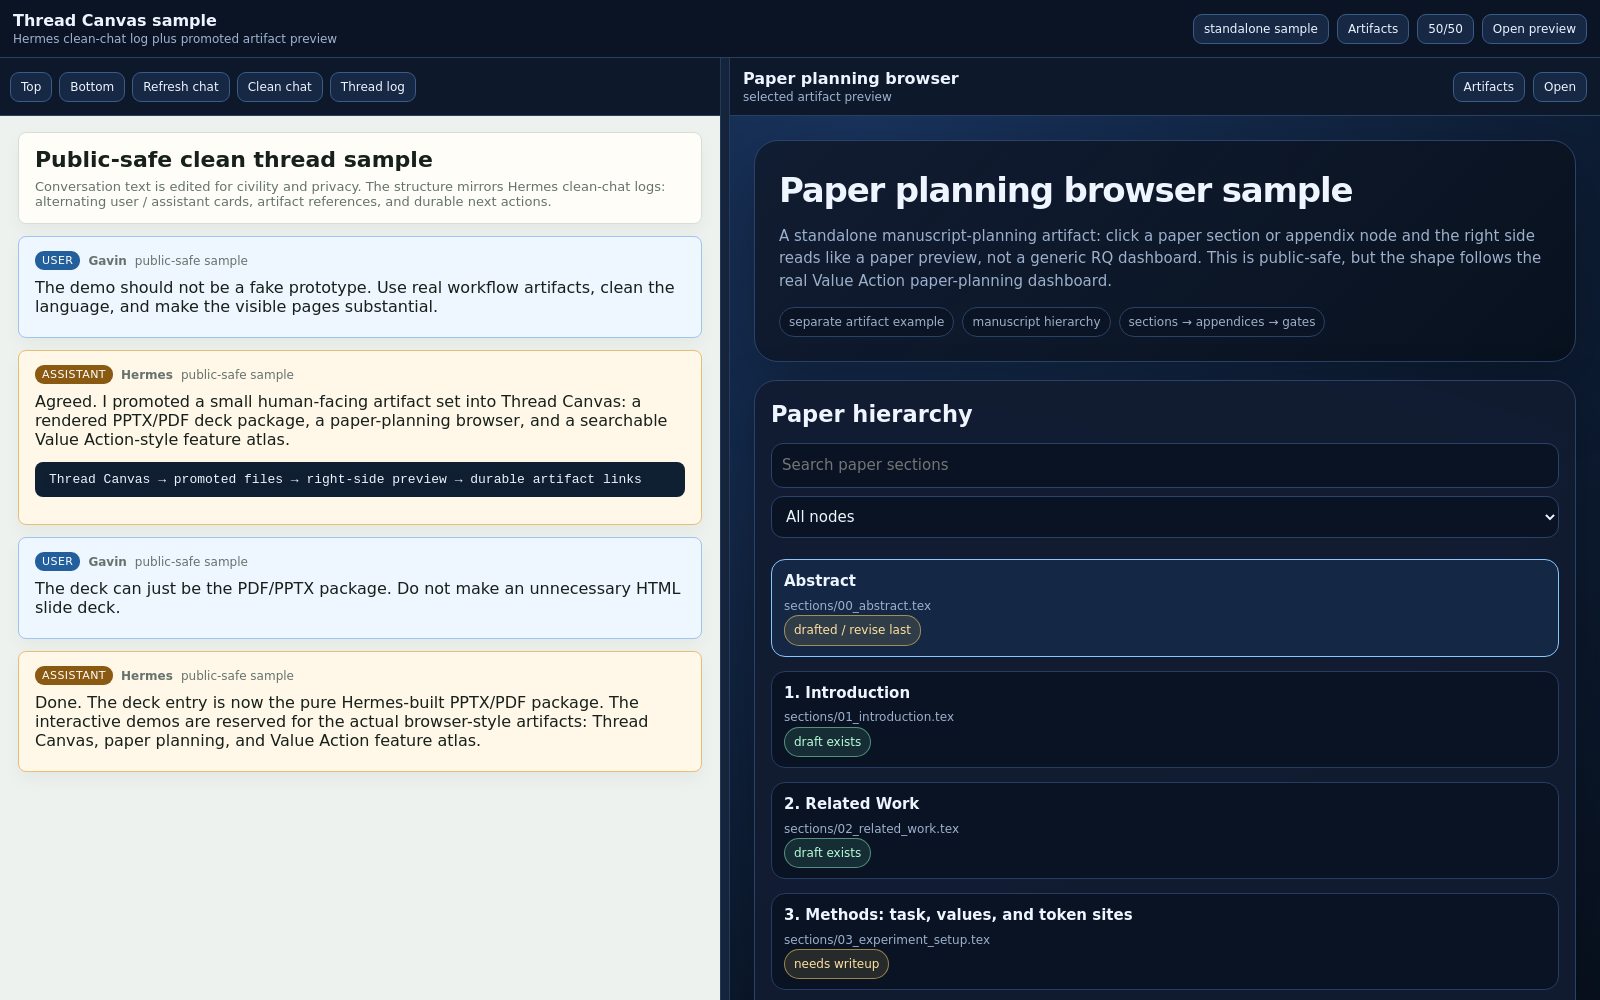
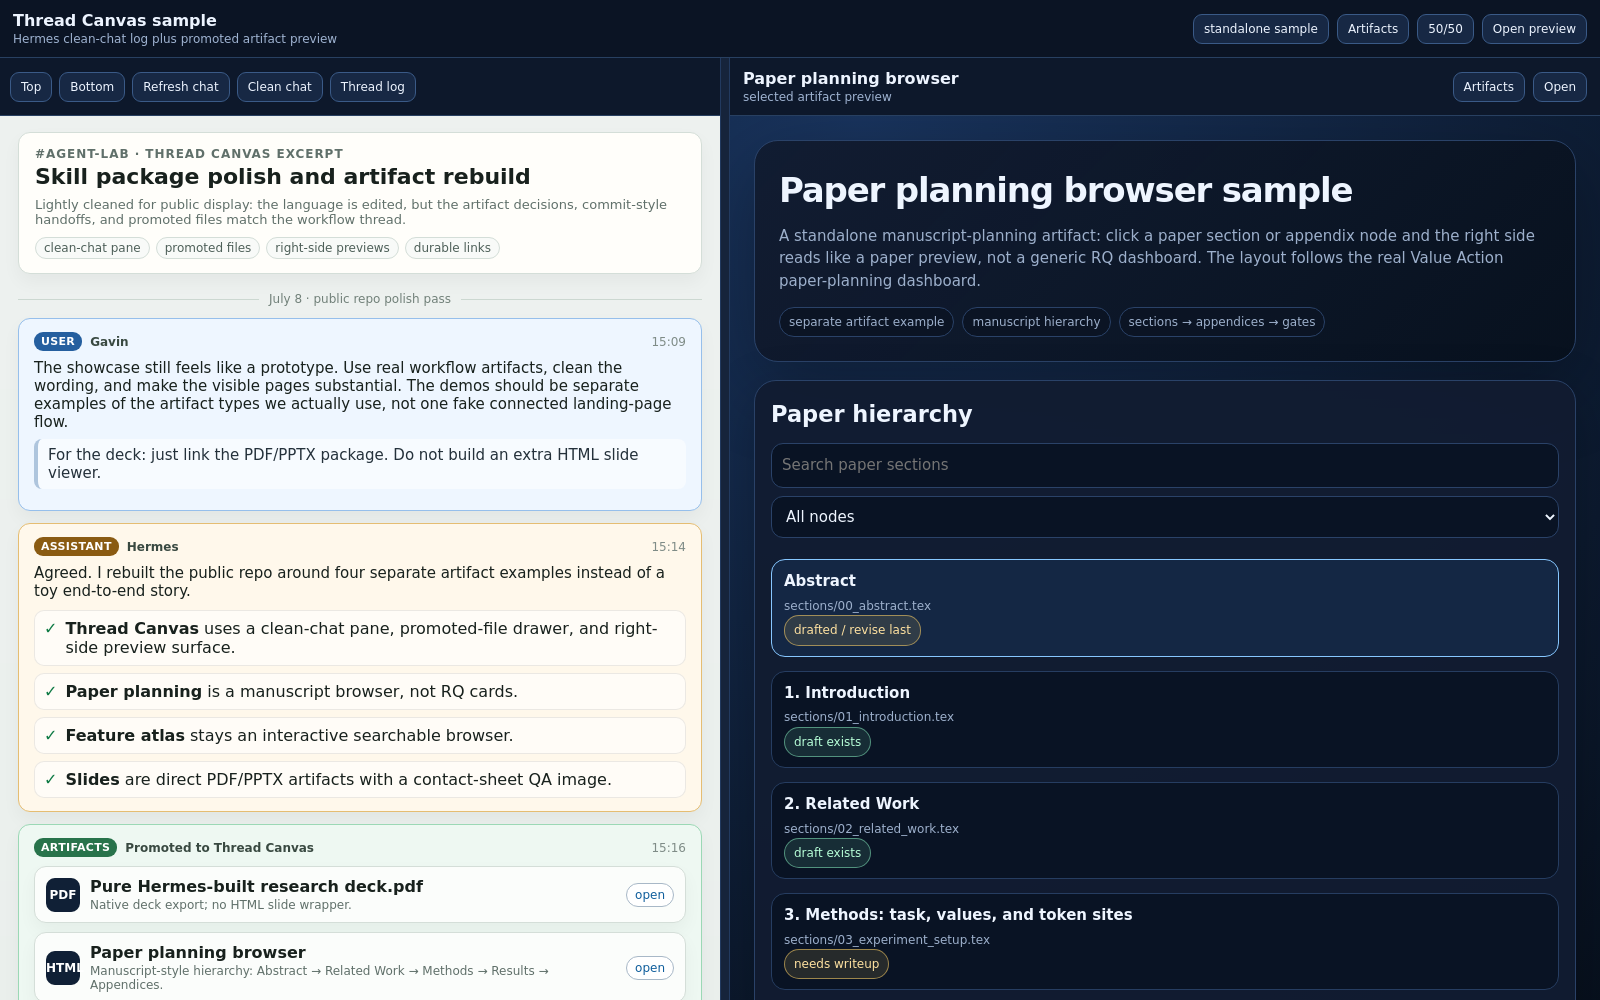
Make Thread Canvas sample more realistic

diff --git a/docs/demos/thread-canvas-chat-clean.html b/docs/demos/thread-canvas-chat-clean.html
@@ -1,1 +1,93 @@
-<!doctype html><html><head><meta charset='utf-8'><meta name='viewport' content='width=device-width, initial-scale=1'><title>Clean thread sample</title><style>:root{--bg:#eef2ef;--surface:#fffdf8;--ink:#17201b;--muted:#65736d;--line:#d6ded7;--user-bg:#eef6ff;--user-border:#9fc5ee;--assistant-bg:#fff7e8;--assistant-border:#e8bd75;--user-badge:#245f9d;--assistant-badge:#8a5a12}html{scroll-behavior:smooth}body{margin:0;background:var(--bg);color:var(--ink);font-family:Inter,ui-sans-serif,system-ui,-apple-system,Segoe UI,sans-serif;padding:16px 18px 42px}.chat-header,.message{background:var(--surface);border:1px solid var(--line);border-radius:8px;box-shadow:0 8px 18px rgba(23,32,27,.04)}.chat-header{padding:14px 16px;margin-bottom:12px}.chat-header h1{font-size:22px;line-height:1.2;margin:0 0 6px}.chat-header p{margin:0;color:var(--muted);font-size:13px}.message{background:#fff;padding:14px 16px;margin:12px 0}.message.direction-user{background:var(--user-bg);border-color:var(--user-border)}.message.direction-assistant{background:var(--assistant-bg);border-color:var(--assistant-border)}.message header{display:flex;gap:8px;align-items:center;margin-bottom:8px;color:var(--muted);font-size:12px}.direction{border-radius:999px;color:#fff;padding:3px 7px;font-size:11px;text-transform:uppercase;letter-spacing:.04em}.direction-user .direction{background:var(--user-badge)}.direction-assistant .direction{background:var(--assistant-badge)}code{background:rgba(0,0,0,.06);border-radius:4px;padding:1px 4px}pre{background:#102033;color:#edf4ff;border-radius:8px;padding:10px;overflow:auto}.markdown-body p{margin:7px 0}</style></head><body><section class='chat-header'><h1>Public-safe clean thread sample</h1><p>Conversation text is edited for civility and privacy. The structure mirrors Hermes clean-chat logs: alternating user / assistant cards, artifact references, and durable next actions.</p></section><article class='message direction-user'><header><span class='direction'>user</span><strong>Gavin</strong><time>public-safe sample</time></header><div class='markdown-body'><p>The demo should not be a fake prototype. Use real workflow artifacts, clean the language, and make the visible pages substantial.</p></div></article><article class='message direction-assistant'><header><span class='direction'>assistant</span><strong>Hermes</strong><time>public-safe sample</time></header><div class='markdown-body'><p>Agreed. I promoted a small human-facing artifact set into Thread Canvas: a rendered PPTX/PDF deck package, a paper-planning browser, and a searchable Value Action-style feature atlas.</p><pre><code>Thread Canvas → promoted files → right-side preview → durable artifact links</code></pre></div></article><article class='message direction-user'><header><span class='direction'>user</span><strong>Gavin</strong><time>public-safe sample</time></header><div class='markdown-body'><p>The deck can just be the PDF/PPTX package. Do not make an unnecessary HTML slide deck.</p></div></article><article class='message direction-assistant' id='latest'><header><span class='direction'>assistant</span><strong>Hermes</strong><time>public-safe sample</time></header><div class='markdown-body'><p>Done. The deck entry is now the pure Hermes-built PPTX/PDF package. The interactive demos are reserved for the actual browser-style artifacts: Thread Canvas, paper planning, and Value Action feature atlas.</p></div></article></body></html>
+<!doctype html>
+<html lang="en">
+<head>
+<meta charset="utf-8">
+<meta name="viewport" content="width=device-width, initial-scale=1">
+<title>Clean chat log · public showcase thread</title>
+<style>
+:root{
+  --bg:#eef2f0;--surface:#fffefa;--ink:#18211d;--muted:#60706a;--line:#d4ded8;
+  --user-bg:#eef6ff;--user-border:#96bfeb;--assistant-bg:#fff8eb;--assistant-border:#e5bd72;
+  --tool-bg:#eef8f2;--tool-border:#9bd8b5;--code:#102036;--blue:#255f9f;--gold:#8a5b12;--green:#28734b;
+}
+*{box-sizing:border-box}
+html{scroll-behavior:smooth}
+body{margin:0;background:linear-gradient(180deg,#eef2f0,#e7ede9);color:var(--ink);font-family:Inter,ui-sans-serif,system-ui,-apple-system,Segoe UI,sans-serif;padding:16px 18px 42px}
+a{color:#0f5e9c}.thread-top,.message,.artifact-row{background:var(--surface);border:1px solid var(--line);border-radius:12px;box-shadow:0 8px 18px rgba(23,32,27,.045)}
+.thread-top{padding:14px 16px;margin-bottom:14px}.eyebrow{font-size:12px;color:var(--muted);text-transform:uppercase;letter-spacing:.08em;font-weight:800}.thread-top h1{font-size:22px;line-height:1.2;margin:3px 0 7px}.thread-top p{margin:0;color:var(--muted);font-size:13px;max-width:980px}.chips{display:flex;flex-wrap:wrap;gap:6px;margin-top:10px}.chip{display:inline-flex;align-items:center;border:1px solid var(--line);border-radius:999px;padding:3px 8px;font-size:12px;color:#4e6059;background:#f8faf8}.day{display:flex;align-items:center;gap:10px;color:#718079;font-size:12px;margin:18px 0 10px}.day:before,.day:after{content:"";height:1px;background:#ccd8d1;flex:1}.message{padding:13px 15px;margin:12px 0}.message.user{background:var(--user-bg);border-color:var(--user-border)}.message.assistant{background:var(--assistant-bg);border-color:var(--assistant-border)}.message.tool{background:var(--tool-bg);border-color:var(--tool-border)}.msg-head{display:flex;align-items:center;gap:8px;margin-bottom:8px;color:var(--muted);font-size:12px}.badge{display:inline-flex;align-items:center;border-radius:999px;padding:3px 7px;font-size:11px;font-weight:800;letter-spacing:.03em;color:#fff}.user .badge{background:var(--blue)}.assistant .badge{background:var(--gold)}.tool .badge{background:var(--green)}.name{font-weight:700;color:#394941}.time{margin-left:auto;color:#7f8c87}.message p{margin:8px 0;font-size:15px}.message ul{margin:8px 0 0 22px;padding:0}.message li{margin:4px 0}.quote{border-left:4px solid rgba(37,95,159,.35);padding:7px 10px;background:rgba(255,255,255,.55);border-radius:8px;color:#24313b}.action-list{display:grid;gap:7px;margin-top:10px}.action{display:flex;gap:8px;align-items:flex-start;background:rgba(255,255,255,.58);border:1px solid rgba(0,0,0,.08);border-radius:10px;padding:8px 9px}.check{color:#0e7a44;font-weight:900}.code{display:block;background:var(--code);color:#eef6ff;border-radius:8px;padding:9px 11px;margin:9px 0;font:12px/1.5 ui-monospace,SFMono-Regular,Menlo,Consolas,monospace;overflow:auto}.artifact-row{display:grid;grid-template-columns:34px 1fr auto;gap:10px;align-items:center;margin:9px 0;padding:10px 11px;background:#fbfdfb}.icon{width:34px;height:34px;border-radius:9px;display:grid;place-items:center;background:#102036;color:#fff;font-weight:900;font-size:12px}.artifact-title{font-weight:800}.artifact-sub{font-size:12px;color:var(--muted);margin-top:2px}.artifact-row a{font-size:12px;border:1px solid #a8b8c7;border-radius:999px;padding:4px 8px;text-decoration:none;background:#fff}.small{font-size:12px;color:var(--muted)}
+</style>
+</head>
+<body>
+<section class="thread-top">
+  <div class="eyebrow">#agent-lab · Thread Canvas excerpt</div>
+  <h1>Skill package polish and artifact rebuild</h1>
+  <p>Lightly cleaned for public display: the language is edited, but the artifact decisions, commit-style handoffs, and promoted files match the workflow thread.</p>
+  <div class="chips"><span class="chip">clean-chat pane</span><span class="chip">promoted files</span><span class="chip">right-side previews</span><span class="chip">durable links</span></div>
+</section>
+
+<div class="day"><span>July 8 · public repo polish pass</span></div>
+
+<article class="message user">
+  <div class="msg-head"><span class="badge">USER</span><span class="name">Gavin</span><span class="time">15:09</span></div>
+  <p>The showcase still feels like a prototype. Use real workflow artifacts, clean the wording, and make the visible pages substantial. The demos should be separate examples of the artifact types we actually use, not one fake connected landing-page flow.</p>
+  <p class="quote">For the deck: just link the PDF/PPTX package. Do not build an extra HTML slide viewer.</p>
+</article>
+
+<article class="message assistant">
+  <div class="msg-head"><span class="badge">ASSISTANT</span><span class="name">Hermes</span><span class="time">15:14</span></div>
+  <p>Agreed. I rebuilt the public repo around four separate artifact examples instead of a toy end-to-end story.</p>
+  <div class="action-list">
+    <div class="action"><span class="check">✓</span><div><b>Thread Canvas</b> uses a clean-chat pane, promoted-file drawer, and right-side preview surface.</div></div>
+    <div class="action"><span class="check">✓</span><div><b>Paper planning</b> is a manuscript browser, not RQ cards.</div></div>
+    <div class="action"><span class="check">✓</span><div><b>Feature atlas</b> stays an interactive searchable browser.</div></div>
+    <div class="action"><span class="check">✓</span><div><b>Slides</b> are direct PDF/PPTX artifacts with a contact-sheet QA image.</div></div>
+  </div>
+</article>
+
+<article class="message tool">
+  <div class="msg-head"><span class="badge">ARTIFACTS</span><span class="name">Promoted to Thread Canvas</span><span class="time">15:16</span></div>
+  <div class="artifact-row"><div class="icon">PDF</div><div><div class="artifact-title">Pure Hermes-built research deck.pdf</div><div class="artifact-sub">Native deck export; no HTML slide wrapper.</div></div><a href="artifacts/hermes-built-research-deck.pdf" target="_blank" rel="noopener">open</a></div>
+  <div class="artifact-row"><div class="icon">HTML</div><div><div class="artifact-title">Paper planning browser</div><div class="artifact-sub">Manuscript-style hierarchy: Abstract → Related Work → Methods → Results → Appendices.</div></div><a href="paper-plan-demo.html" target="_blank" rel="noopener">open</a></div>
+  <div class="artifact-row"><div class="icon">HTML</div><div><div class="artifact-title">Value Action feature atlas</div><div class="artifact-sub">Searchable browser for feature/value/evidence rows and claim gates.</div></div><a href="value-action-feature-atlas-demo.html" target="_blank" rel="noopener">open</a></div>
+</article>
+
+<article class="message user">
+  <div class="msg-head"><span class="badge">USER</span><span class="name">Gavin</span><span class="time">15:21</span></div>
+  <p>The paper planning example should look like an actual paper plan. I want a structure from abstract to related work to methods to results and appendices. It should resemble the real Value Action paper planning dashboard.</p>
+</article>
+
+<article class="message assistant">
+  <div class="msg-head"><span class="badge">ASSISTANT</span><span class="name">Hermes</span><span class="time">15:28</span></div>
+  <p>I replaced the paper demo with a manuscript-style browser and served the actual Value Action planning dashboard separately for reference.</p>
+  <span class="code">actual reference source:
+Value Action paper-planning dashboard
+
+public temporary tunnel:
+/value-action-paper-planning/</span>
+  <p class="small">The public demo stays cleaned; the tunnel link is a temporary reference to the real internal dashboard shape.</p>
+</article>
+
+<article class="message user">
+  <div class="msg-head"><span class="badge">USER</span><span class="name">Gavin</span><span class="time">15:34</span></div>
+  <p>The screenshots in the README should be the actual pages, one title followed by one large image, so viewers can tell which artifact is which.</p>
+</article>
+
+<article class="message assistant">
+  <div class="msg-head"><span class="badge">ASSISTANT</span><span class="name">Hermes</span><span class="time">15:39</span></div>
+  <p>Done. The README now shows one large screenshot per artifact, with each image linked to the corresponding public artifact.</p>
+  <div class="action-list">
+    <div class="action"><span class="check">✓</span><div>Re-captured real browser screenshots with Playwright.</div></div>
+    <div class="action"><span class="check">✓</span><div>Changed image sources to GitHub Pages URLs for stable README rendering.</div></div>
+    <div class="action"><span class="check">✓</span><div>Verified GitHub Pages deployment and privacy scan.</div></div>
+  </div>
+</article>
+
+<article class="message tool">
+  <div class="msg-head"><span class="badge">VERIFY</span><span class="name">Deployment / privacy checks</span><span class="time">15:43</span></div>
+  <span class="code">commit: 2d94f65 Make paper demo manuscript-style and separate examples
+privacy scan: No scanner findings. Manual review still required.
+Pages: deployed successfully
+README: 4 large preview screenshots</span>
+</article>
+</body>
+</html>

diff --git a/docs/demos/paper-plan-demo.html b/docs/demos/paper-plan-demo.html
@@ -9,7 +9,7 @@
 </style>
 </head>
 <body><div class="wrap">
-<header class="hero"><h1>Paper planning browser sample</h1><p>A standalone manuscript-planning artifact: click a paper section or appendix node and the right side reads like a paper preview, not a generic RQ dashboard. This is public-safe, but the shape follows the real Value Action paper-planning dashboard.</p><div class="meta"><span class="pill">separate artifact example</span><span class="pill">manuscript hierarchy</span><span class="pill">sections → appendices → gates</span></div></header>
+<header class="hero"><h1>Paper planning browser sample</h1><p>A standalone manuscript-planning artifact: click a paper section or appendix node and the right side reads like a paper preview, not a generic RQ dashboard. The layout follows the real Value Action paper-planning dashboard.</p><div class="meta"><span class="pill">separate artifact example</span><span class="pill">manuscript hierarchy</span><span class="pill">sections → appendices → gates</span></div></header>
 <section class="dashboard"><aside class="sidebar"><h2>Paper hierarchy</h2><div class="controls"><input id="q" placeholder="Search paper sections" oninput="renderTree()"><select id="kind" onchange="renderTree()"><option value="all">All nodes</option><option value="main">Main paper</option><option value="appendix">Appendices</option><option value="planned">Planned / gates</option></select></div><div id="tree"></div></aside><main class="paperShell"><article class="paper" id="paper"></article></main></section>
 <section class="ledger"><h2>Result → paper placement ledger</h2><div class="grid" id="ledger"></div></section>
 </div><script>